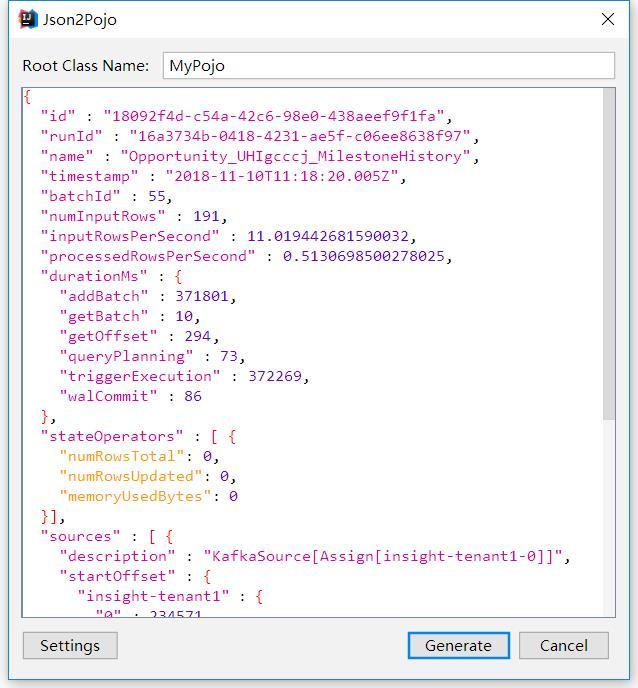
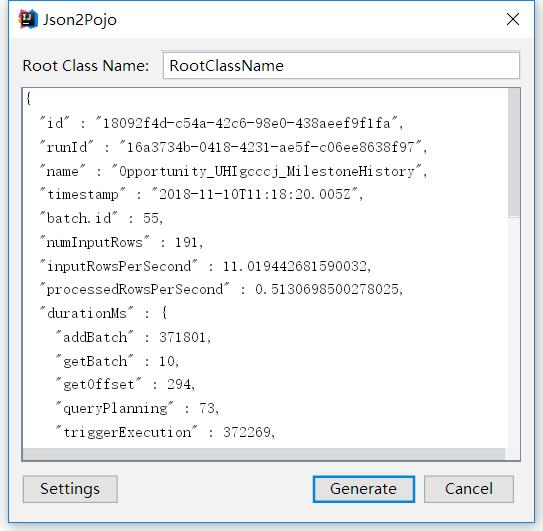
Support prefix for @Accessors, update UI and readme.

Changed region(s): [[0.0, 0.0, 1.0, 0.9944], [0.6777, 0.5122, 0.7366, 0.5725]]

diff --git a/src/main/java/liwey/json2pojo/SettingsDialog.java b/src/main/java/liwey/json2pojo/SettingsDialog.java
@@ -22,8 +22,10 @@ public class SettingsDialog extends JDialog {
     private JCheckBox allArgsConstructorCheckBox;
     private JCheckBox fluentCheckBox;
 
-    private JComboBox<String> comboBoxFieldName;
+    private JComboBox<String> filedNameComboBox;
     private JCheckBox checkBoxPrimitive;
+    private JCheckBox chainCheckBox;
+    private JTextField prefixTextField;
 
     public SettingsDialog() {
         setContentPane(contentPanel);
@@ -46,29 +48,37 @@ public class SettingsDialog extends JDialog {
         // call onCancel() on ESCAPE
         contentPanel.registerKeyboardAction(e -> onCancel(), KeyStroke.getKeyStroke(KeyEvent.VK_ESCAPE, 0),
                 JComponent.WHEN_ANCESTOR_OF_FOCUSED_COMPONENT);
+        accessorsCheckBox.addChangeListener(e -> updateAccessorsState());
 
-        comboBoxFieldName.addItem("None");
-        comboBoxFieldName.addItem("@SerializedName (gson)");
-        comboBoxFieldName.addItem("@JsonProperty (jackson)");
-        fluentCheckBox.setEnabled(accessorsCheckBox.isSelected());
+        filedNameComboBox.addItem("None");
+        filedNameComboBox.addItem("@SerializedName (gson)");
+        filedNameComboBox.addItem("@JsonProperty (jackson)");
 
         bindConfig();
-        accessorsCheckBox.addChangeListener(e -> fluentCheckBox.setEnabled(accessorsCheckBox.isSelected()));
     }
 
     private void bindConfig() {
         try {
             config = ConfigUtil.load();
             setData(config);
+            updateAccessorsState();
+            filedNameComboBox.setSelectedIndex(config.getFieldNameAnnotation());
         } catch (IOException e) {
             JOptionPane.showMessageDialog(this, "Failed to load settings, using default settings: " + e.getMessage(),
                     "Error", JOptionPane.ERROR_MESSAGE);
         }
     }
 
+    private void updateAccessorsState(){
+        fluentCheckBox.setEnabled(accessorsCheckBox.isSelected());
+        chainCheckBox.setEnabled(accessorsCheckBox.isSelected());
+        prefixTextField.setEnabled(accessorsCheckBox.isSelected());
+    }
+
     private void onOK() {
         try {
             getData(config);
+            config.setFieldNameAnnotation(filedNameComboBox.getSelectedIndex());
             ConfigUtil.save(config);
         } catch (IOException e) {
             JOptionPane.showMessageDialog(this, "Failed to load settings: " + e.getMessage(), "Error",
@@ -86,11 +96,12 @@ public class SettingsDialog extends JDialog {
         requiredArgsConstructorCheckBox.setSelected(data.isLombokRequiredArgsConstructor());
         allArgsConstructorCheckBox.setSelected(data.isLombokAllArgsConstructor());
         dataCheckbox.setSelected(data.isLombokData());
+        builderCheckbox.setSelected(data.isLombokBuilder());
         accessorsCheckBox.setSelected(data.isLombokAccessors());
         fluentCheckBox.setSelected(data.isLombokAccessorsFluent());
-        builderCheckbox.setSelected(data.isLombokBuilder());
+        chainCheckBox.setSelected(data.isLombokAccessorsChain());
+        prefixTextField.setText(data.getLombokAccessorsPrefix());
         checkBoxPrimitive.setSelected(data.isPrimitive());
-        comboBoxFieldName.setSelectedIndex(data.getFieldNameAnnotation());
     }
 
     public void getData(Config data) {
@@ -98,23 +109,11 @@ public class SettingsDialog extends JDialog {
         data.setLombokRequiredArgsConstructor(requiredArgsConstructorCheckBox.isSelected());
         data.setLombokAllArgsConstructor(allArgsConstructorCheckBox.isSelected());
         data.setLombokData(dataCheckbox.isSelected());
+        data.setLombokBuilder(builderCheckbox.isSelected());
         data.setLombokAccessors(accessorsCheckBox.isSelected());
         data.setLombokAccessorsFluent(fluentCheckBox.isSelected());
-        data.setLombokBuilder(builderCheckbox.isSelected());
+        data.setLombokAccessorsChain(chainCheckBox.isSelected());
+        data.setLombokAccessorsPrefix(prefixTextField.getText());
         data.setPrimitive(checkBoxPrimitive.isSelected());
-        data.setFieldNameAnnotation(comboBoxFieldName.getSelectedIndex());
-    }
-
-    public boolean isModified(Config data) {
-        if (noArgsConstructorCheckBox.isSelected() != data.isLombokNoArgsConstructor()) return true;
-        if (requiredArgsConstructorCheckBox.isSelected() != data.isLombokRequiredArgsConstructor()) return true;
-        if (allArgsConstructorCheckBox.isSelected() != data.isLombokAllArgsConstructor()) return true;
-        if (dataCheckbox.isSelected() != data.isLombokData()) return true;
-        if (accessorsCheckBox.isSelected() != data.isLombokAccessors()) return true;
-        if (fluentCheckBox.isSelected() != data.isLombokAccessorsFluent()) return true;
-        if (builderCheckbox.isSelected() != data.isLombokBuilder()) return true;
-        if (checkBoxPrimitive.isSelected() != data.isPrimitive()) return true;
-        if (comboBoxFieldName.getSelectedIndex() != data.getFieldNameAnnotation()) return true;
-        return false;
     }
 }

diff --git a/src/main/java/liwey/json2pojo/Generator.java b/src/main/java/liwey/json2pojo/Generator.java
@@ -310,8 +310,8 @@ class Generator {
                 // Annotate field
                 annotateField(newField, fieldInfo.propertyName);
 
-                // Create getter/setter if lombok is disabled.
-                 if (!config.useLombok()) {
+                // Create getter/setter if lombok.Data is not present.
+                if (!config.isLombokData()) {
                     createGetter(clazz, newField, fieldInfo.propertyName);
                     createSetter(clazz, newField, fieldInfo.propertyName);
                 }
@@ -347,7 +347,16 @@ class Generator {
         }
 
         if (config.isLombokAccessors()) {
-            clazz.annotate(Accessors.class).param("fluent", config.isLombokAccessorsFluent());
+            JAnnotationUse use = clazz.annotate(Accessors.class);
+            if (config.isLombokAccessorsFluent()) {
+                use.param("fluent", true);
+            }
+            if (config.isLombokAccessorsChain()) {
+                use.param("chain", true);
+            }
+            if (!config.getLombokAccessorsPrefix().trim().isEmpty()) {
+                use.param("prefix", config.getLombokAccessorsPrefix());
+            }
         }
 
         if (config.isLombokBuilder()) {

diff --git a/src/main/java/liwey/json2pojo/Config.java b/src/main/java/liwey/json2pojo/Config.java
@@ -10,19 +10,15 @@ import lombok.Data;
  */
 @Data
 public class Config {
-    @JsonProperty("pri")
     private boolean primitive = true;
     private int fieldNameAnnotation = 0;
     private boolean lombokAccessors = false;
     private boolean lombokAccessorsFluent = true;
+    private boolean lombokAccessorsChain = true;
+    private String lombokAccessorsPrefix = "";
     private boolean lombokBuilder = false;
     private boolean lombokData = true;
     private boolean lombokNoArgsConstructor = false;
     private boolean lombokRequiredArgsConstructor = false;
     private boolean lombokAllArgsConstructor = false;
-
-    public boolean useLombok() {
-        return lombokBuilder || lombokData || lombokAccessors || lombokNoArgsConstructor
-                || lombokRequiredArgsConstructor || lombokAllArgsConstructor;
-    }
 }

diff --git a/src/test/java/liwey/json2pojo/ConfigTest.java b/src/test/java/liwey/json2pojo/ConfigTest.java
@@ -10,6 +10,5 @@ public class ConfigTest extends TestCase {
     @Test
     public void testDefaultConfig() {
         Config config = new Config();
-        Assert.assertTrue(config.useLombok());
     }
 }

diff --git a/src/main/java/com/fasterxml/jackson/annotation/package-info.java b/src/main/java/com/fasterxml/jackson/annotation/package-info.java
@@ -1,1 +1,2 @@
+//include the source files so the jackson jars are not included in the distribution zip
 package com.fasterxml.jackson.annotation;

diff --git a/src/main/java/org/jboss/dna/common/text/package-info.java b/src/main/java/org/jboss/dna/common/text/package-info.java
@@ -1,1 +1,2 @@
+//include the source files so the jboss jar is not included in the distribution zip
 package org.jboss.dna.common.text;

diff --git a/src/main/java/lombok/package-info.java b/src/main/java/lombok/package-info.java
@@ -1,1 +1,2 @@
+//include the source files so the lombok jar is not included in the distribution zip
 package lombok;

diff --git a/README.cn.md b/README.cn.md
@@ -1,20 +1,20 @@
-[中文 README](README.cn.md)
+[English README](README.md)
 
-## Introduction
-An IntelliJ Idea plugin which generate POJOs from JSON with Lombok and gson/jackson annotations.
+## 简介
+IntelliJ Idea插件，从JSON文本生成POJO, 并添加Lombok与Gson/Jackson注解.
 
-## Installation
-From IntelliJ Idea plugin marketplace search `Json2Pojo with Lombok`.
+## 安装
+从plugin库marketplace搜索`Json2Pojo with Lombok`。
 
-## Usage
-1. From context of a package，select "New-> Generate POJOs from JSON".
+## 使用
+1. 右键目标package，选择"New-> Generate POJOs from JSON"  
 ![Context menu](image/menu.jpg "菜单")
 
-2. Input root class name and source JSON.
+2. 输入类名和源JSON文本。  
 ![Input UI](image/input.jpg "输入")
 
-## Example
-Json
+## 实例
+输入Json:
 
 	{
 	  "javaHome": "c:\\java18",
@@ -22,7 +22,7 @@ Json
 	  "scala.Version": "2.12.8"
 	}
 
-POJO class
+生成类：
 
     package test;
 
@@ -41,10 +41,10 @@ POJO class
         private String scalaVersion;
     }
 
-## Settings
-![Settings UI](image/config.jpg)
+## 配置
+![Settings UI](image/config.jpg "配置界面")
 
-Settings file ~/.json2pojo
+配置文件~/.json2pojo
 
     {
       "primitive": true,
